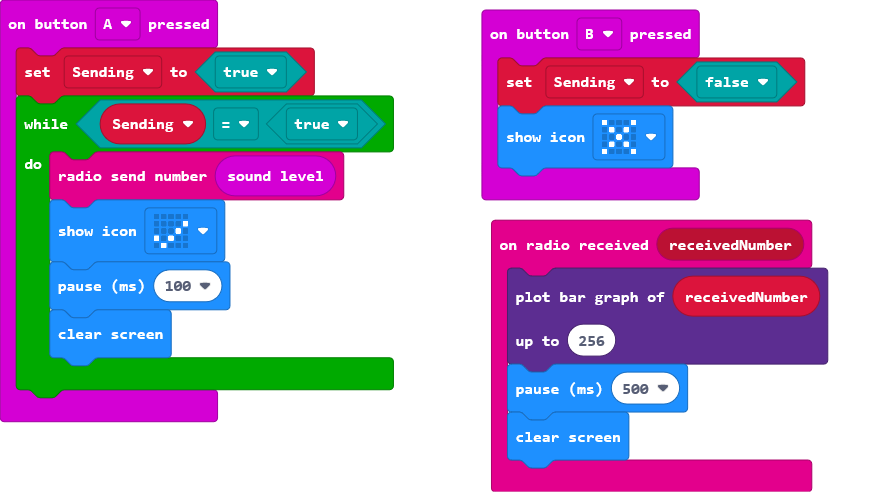
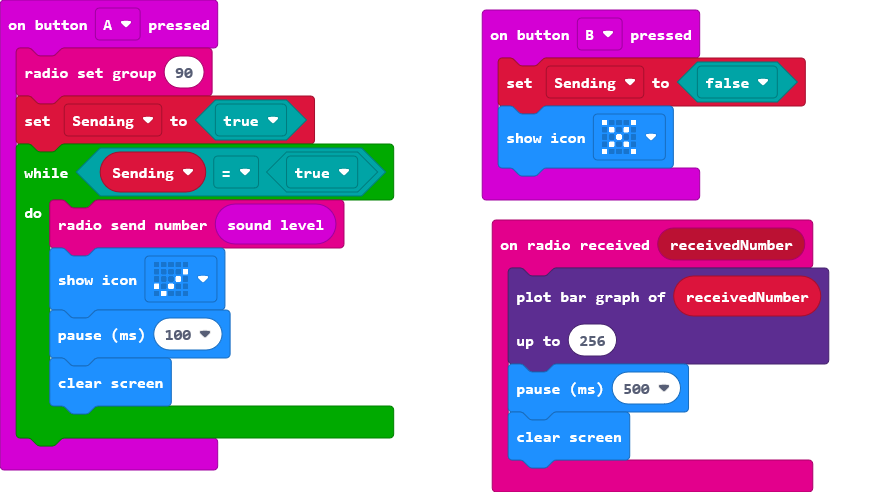
Added setting a group to the radio

diff --git a/main.ts b/main.ts
@@ -8,6 +8,7 @@ radio.onReceivedNumber(function (receivedNumber) {
     basic.clearScreen()
 })
 input.onButtonPressed(Button.A, function () {
+    radio.setGroup(90)
     Sending = true
     while (Sending == true) {
         radio.sendNumber(input.soundLevel())
